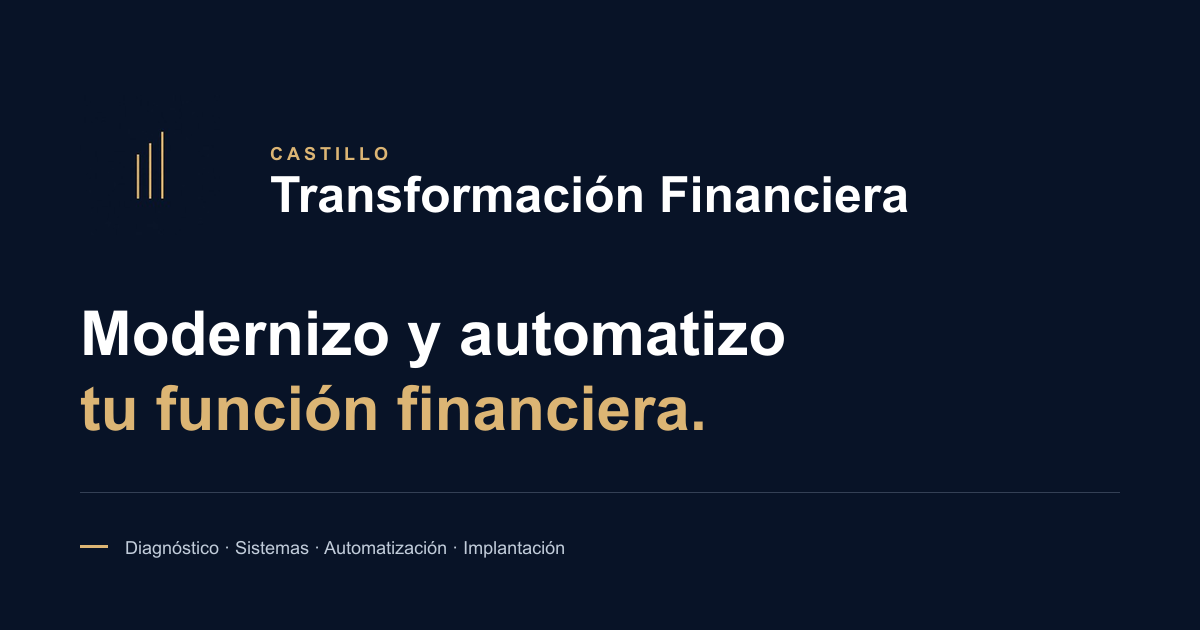
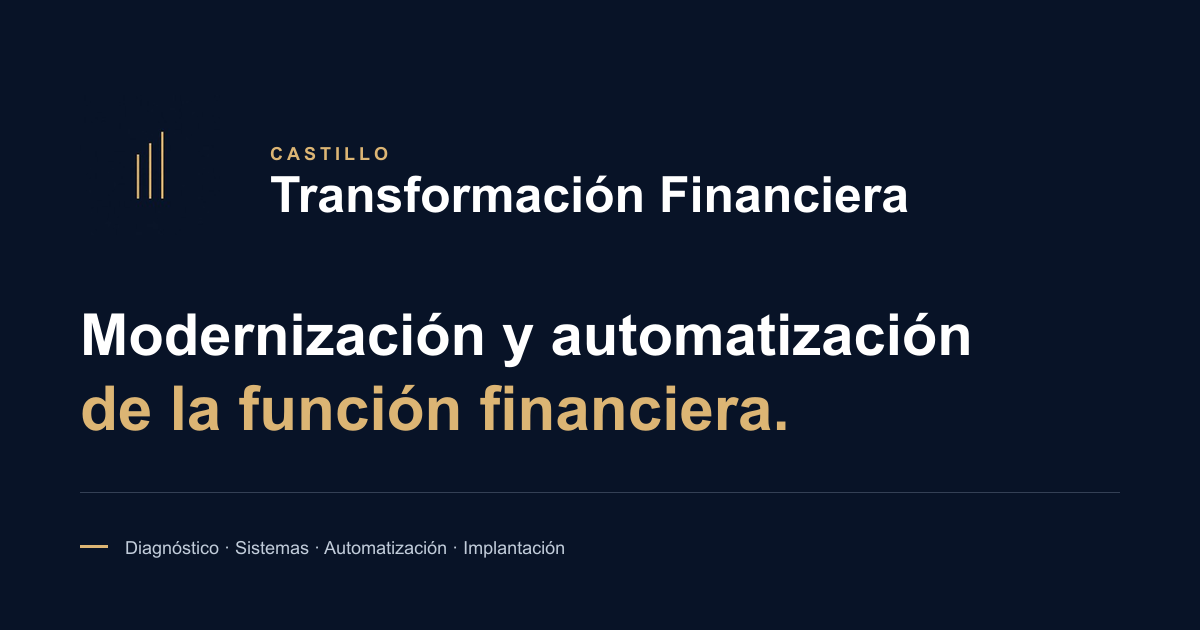
fix: present Castillo services with a professional editorial voice

Changed region(s): [[0.0617, 0.4825, 0.8325, 0.6937]]

diff --git a/website/src/data/content.ts b/website/src/data/content.ts
@@ -55,7 +55,7 @@ export const services = [
     title: "Diagnóstico y hoja de ruta",
     problem:
       "Sabes que hay trabajo manual, información poco fiable o controles que necesitan mejorar, pero falta decidir por dónde empezar.",
-    work: "Reviso con Finanzas los procesos, sistemas, datos y controles. Identifico riesgos y oportunidades, y priorizo intervenciones por valor, esfuerzo y dependencias.",
+    work: "El diagnóstico revisa procesos, sistemas, datos y controles con el equipo financiero. Las propuestas se ordenan por valor, esfuerzo y dependencias, con los riesgos identificados.",
     examples: [
       "Cierre, conciliaciones y controles",
       "R2R · P2P/S2P · O2C",
@@ -69,7 +69,7 @@ export const services = [
     title: "Proyectos de transformación",
     problem:
       "El problema está identificado. Hace falta convertirlo en una solución que el equipo pueda utilizar y mantener.",
-    work: "Diseño el proceso objetivo y los requisitos funcionales. Construyo directamente cuando el alcance encaja, o dirijo con IT y proveedores. Coordino pruebas, puesta en marcha y adopción.",
+    work: "Cada proyecto incluye el proceso objetivo y los requisitos funcionales, el desarrollo o la coordinación con IT y proveedores, las pruebas de aceptación y la puesta en marcha.",
     examples: [
       "Integraciones y mejora del ERP",
       "Reporting conciliado y calidad del dato",
@@ -82,20 +82,20 @@ export const services = [
 ];
 export const steps = [
   [
-    "Entender",
-    "Revisar con Finanzas el problema, los procesos, los datos y los sistemas. Cuando hace falta, con un diagnóstico específico.",
+    "Diagnóstico",
+    "Revisión del problema con Finanzas: procesos, datos, sistemas y controles. El análisis permite decidir qué necesita cambiar.",
   ],
   [
-    "Priorizar y acordar",
-    "Definir una fase acotada, con alcance, entregables, calendario y criterios de aceptación.",
+    "Alcance y prioridades",
+    "Cada fase tiene entregables, calendario y criterios de aceptación acordados. Las prioridades consideran valor, esfuerzo y dependencias.",
   ],
   [
-    "Construir o dirigir",
-    "Desarrollar la solución o dirigir con IT y proveedores. Asumir la coordinación y la validación de lo acordado.",
+    "Desarrollo y dirección",
+    "Desarrollo directo o ejecución con IT y proveedores, según el proyecto. Responsabilidades definidas y validación de lo acordado.",
   ],
   [
-    "Implantar y medir",
-    "Probar con usuarios, formar y traspasar al equipo. Revisar resultados antes de acordar la siguiente fase.",
+    "Implantación y seguimiento",
+    "Pruebas con usuarios, formación y traspaso al equipo. Los resultados se revisan antes de acordar la siguiente fase.",
   ],
 ];
 

diff --git a/docs/POSITIONING.md b/docs/POSITIONING.md
@@ -1,8 +1,8 @@
 # Posicionamiento
 
-Castillo · Transformación Financiera es la práctica independiente de Gerson Castillo. Dirige y ejecuta la modernización de la función financiera conectando procesos, sistemas, datos y tecnología. La portada presenta la promesa «Modernizo y automatizo tu función financiera». «Del problema financiero a la solución implantada» se conserva en la metodología.
+Castillo · Transformación Financiera es la práctica independiente de Gerson Castillo. Dirige y ejecuta la modernización de la función financiera conectando procesos, sistemas, datos y tecnología. La portada presenta el servicio «Modernización y automatización de la función financiera». «Del problema financiero a la solución implantada» se conserva en la metodología.
 
-Audiencia: CFO y dirección financiera de empresas medianas y grupos, con sus equipos y contraparte IT. La web valida la oferta después de una conversación o referencia, incluida la prospección por LinkedIn. Voz directa, sobria y personal; liderazgo de Gerson colaborando con el cliente y especialistas cuando el alcance lo requiere.
+Audiencia: CFO y dirección financiera de empresas medianas y grupos, con sus equipos y contraparte IT. La web valida la oferta después de una conversación o referencia, incluida la prospección por LinkedIn. Voz directa, sobria y descriptiva: servicios, procesos y entregables en la presentación comercial; experiencia factual en Sobre Castillo. Gerson dirige personalmente los proyectos, colaborando con el cliente y especialistas cuando el alcance lo requiere. La navegación utiliza Servicios y Metodología. No se utiliza un plural que sugiera una plantilla propia.
 
 La oferta se organiza en diagnóstico y hoja de ruta, y proyectos de transformación con alcance y entregables acordados. Puede continuar con acompañamiento a tiempo parcial. Los agentes son una especialidad dentro de los proyectos, junto con procesos, integraciones, reporting, portales y automatización. Azhum es tecnología propia que se utiliza cuando encaja; la solución se elige según el problema.
 

diff --git a/docs/QA.md b/docs/QA.md
@@ -18,6 +18,17 @@ La autorización actual incluye publicación. Se utiliza el workflow existente B
 ---
 # Validación local
 
+## Voz editorial — 2026-10-10
+
+Corregida la presentación personal de la práctica: Servicios y Metodología en navegación; titular nominal de modernización y automatización; alcance y entregables descritos desde el trabajo; experiencia factual en Sobre Castillo; agentes, Azhum y contacto con voz consistente. Se conserva la identidad visual, los enlaces y fragmentos existentes y la configuración del formulario.
+
+- Build Astro correcto y 12 pruebas Node aprobadas.
+- 6 pruebas de navegador aprobadas, incluida la interfaz del formulario con respuestas simuladas, sin enviar correos reales.
+- Cinco rutas verificadas a 390, 768 y 1440 px: sin desbordamiento horizontal ni errores JavaScript; imágenes cargadas y Axe WCAG A/AA sin infracciones detectadas.
+- Capturas de home, Sobre Castillo, agentes y contacto revisadas en escritorio y móvil. Imagen social regenerada y revisada.
+- Lighthouse no se repite en esta edición de contenido: las métricas de la revisión comercial anterior no constituyen una nueva medición.
+- Evidencia: C:/Users/gerso/Documents/Codex/2026-09-19/files-pasted-by-the-user-project/outputs/castillo-voz-editorial-2026-10-10/.
+
 ## Formulario de contacto — 2026-09-20
 
 Build correcto y siete pruebas Node aprobadas, repetidas tras configurar la clave propia aportada por el propietario. Incluyen respuestas exitosas y fallidas del proveedor, límite 429, error de red, JSON inválido, bloqueo por falta de clave y honeypot, ausencia de reintentos y conservación del mensaje. Estas pruebas automatizadas simulan peticiones. Comprobación del build sin mailto ni correo personal.
